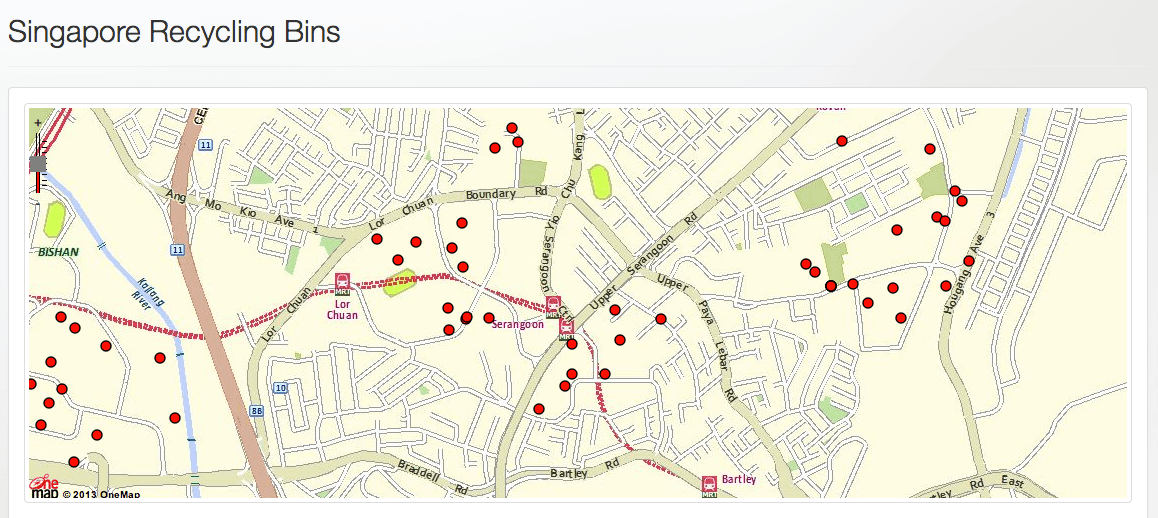
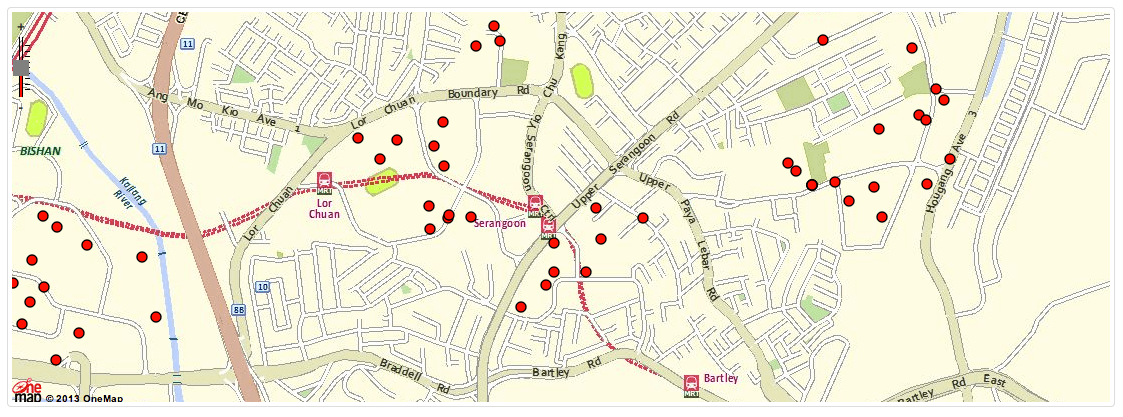
-n Added dummy page - bins-search-2.

diff --git a/scripts/8795050b.scripts.js b/scripts/8795050b.scripts.js
@@ -1,0 +1,1 @@
+"use strict";angular.module("recyclefunWebApp",["FacebookProvider"]).config(["$routeProvider",function(a){a.when("/",{templateUrl:"views/main.html",controller:"MainCtrl"}).when("/login",{templateUrl:"views/auth/login.html",controller:"LoginCtrl"}).when("/logout",{templateUrl:"views/auth/logout.html",controller:"LogoutCtrl"}).when("/register",{templateUrl:"views/auth/register.html",controller:"RegisterCtrl"}).when("/forget-password",{templateUrl:"views/auth/password-forget.html",controller:"PasswordForgetCtrl"}).when("/reset-password/:code",{templateUrl:"views/auth/password-reset.html",controller:"PasswordResetCtrl"}).when("/auth/reset-password/:passcode",{templateUrl:"views/auth/password-reset.html",controller:"PasswordResetCtrl"}).when("/auth/change-password",{templateUrl:"views/auth/password-change.html",controller:"PasswordChangeCtrl"}).when("/notifications",{templateUrl:"views/user/notifications.html",controller:"UserNotificationsCtrl"}).when("/user/",{templateUrl:"views/user/view.html",controller:"UserProfileCtrl"}).when("/user/:userid",{templateUrl:"views/user/view.html",controller:"UserProfileCtrl"}).when("/user/:userid/profile",{templateUrl:"views/user/view.html",controller:"UserProfileCtrl"}).when("/user/:userid/edit",{templateUrl:"views/user/edit.html",controller:"UserEditCtrl"}).when("/user/:userid/settings",{templateUrl:"views/user/settings.html",controller:"UserSettingsCtrl"}).when("/user/:userid/detailed-transactions",{templateUrl:"views/user/detailed-transactions.html",controller:"UserProfileCtrl"}).when("/user/:userid/badges",{templateUrl:"views/user/badges.html",controller:"UserProfileCtrl"}).when("/manage",{templateUrl:"views/pwc-manage/overview.html",controller:"PwcOverviewCtrl"}).when("/manage/pwc",{templateUrl:"views/pwc-manage/overview.html",controller:"PwcOverviewCtrl"}).when("/manage/pwc/bin/:binId",{templateUrl:"views/pwc-manage/bin.html",controller:"PwcBinCtrl"}).when("/badge/:badgeId",{templateUrl:"views/badges/badge.html",controller:"BadgeCtrl"}).when("/leaderboard",{templateUrl:"views/home/leaderboard.html",controller:"LeaderboardCtrl"}).when("/bins-search",{templateUrl:"views/home/bins-search.html",controller:"BinsSearchCtrl"}).when("/bins-search-2",{templateUrl:"views/home/bins-search-screenshot.html",controller:"MainCtrl"}).otherwise({redirectTo:"/"})}]);var pageUrlProtocol=jQuery.url().attr("protocol");window.location.href.indexOf("localhost")>0?angular.module("recyclefunWebApp").value("appConfig",{appName:"RecycleIT (Development)",url:{api:pageUrlProtocol+"://"+"api.recyclefun.localhost/"},facebook:{appId:"516418235114060",channelUrl:"/channel.html",status:!0,cookie:!0,xfbml:!0,permissions:"read_stream, publish_stream, email, read_friendlists"}}):angular.module("recyclefunWebApp").value("appConfig",{appName:"RecycleIT",url:{api:pageUrlProtocol+"://"+"recyclefun-api.ap01.aws.af.cm/"},facebook:{appId:"637970952903072",channelUrl:"/channel.html",status:!0,cookie:!0,xfbml:!0,permissions:"read_stream, publish_stream, email, read_friendlists"}}),angular.module("recyclefunWebApp").controller("MainCtrl",["$scope",function(a){a.awesomeThings=[1,2,3]}]),angular.module("recyclefunWebApp").controller("ApplicationCtrl",["$http","$location","$scope","$rootScope","$timeout","Facebook","appConfig",function(a,b,c,d,e,f,g){d._app=g,d._loading=d._loading||{},"undefined"!=typeof f&&f.init(d._app.facebook),c.FBLogin=function(){d._loading.FBLogin=!0,f.login()},d.$on("event.fb.auth.login",function(b,c){d._loading.FBLogin=!0;var e=c.authResponse;a({method:"GET",withCredentials:!0,url:d._app.url.api+"auth/",params:{accessToken:e.accessToken,type:"Facebook",fb_userID:e.userID}}).success(function(a){d.auth=a,d._loading.FBLogin=!1}).error(function(a){window.alert(a.message),d._loading.FBLogin=!1})}),d.GetAuth=function(){a({method:"GET",withCredentials:!0,url:d._app.url.api+"auth/",params:{}}).success(function(a){d.auth=a}).error(function(a){console.warn(a.message)})},c.$watch("auth",function(){if(d.auth&&d.auth.user){var a=["/login","/register"];a.indexOf(b.path())>-1&&b.path("/user/"+d.auth.user.user_id)}}),c.Login=function(){c._loading.EmailLogin=!0;var b=this;return b.loginForm.$valid&&a({method:"POST",withCredentials:!0,url:d._app.url.api+"auth/login",data:{identity:b.loginForm.inputEmail.$modelValue,password:b.loginForm.inputPassword.$modelValue,remember:b.loginForm.inputRemember.$modelValue}}).success(function(){d.GetAuth(),e(function(){c._loading.EmailLogin=!1},2e3)}).error(function(a){b.loginForm._errorMessage=a.message,e(function(){c._loading.EmailLogin=!1},2e3)}),!1},function(){d.GetAuth(),jQuery.backstretch(["images/bg/1.jpg","images/bg/2.jpg","images/bg/3.jpg","images/bg/4.jpg","images/bg/5.jpg"],{fade:1e3,duration:8e3})}()}]).controller("FacebookCtrl",function(){}),angular.module("recyclefunWebApp").controller("LoginCtrl",["$rootScope",function(a){a.GetAuth()}]).controller("RegisterCtrl",["$http","$rootScope","$scope",function(a,b,c){b.GetAuth(),c.Register=function(){var d=this;return jQuery("form[name=registerForm]").valid()?(a({method:"POST",withCredentials:!0,url:b._app.url.api+"auth/register",data:c.regFrm}).success(function(){b.GetAuth()}).error(function(a){console.warn(a),console.log(d,d),d.registerForm._errorMessage=a.message}),void 0):!1},c.InitializePage=function(){jQuery("form[name=registerForm]").validate({rules:{email:{required:!0,email:!0},password:{minlength:8,required:!0},confirmPassword:{equalTo:"[name=password]"}},highlight:function(a){jQuery(a).closest(".form-group").removeClass("has-success").addClass("has-error")},success:function(a){jQuery(a).html('<i class="icon-ok"></i>').addClass("valid").closest(".form-group").removeClass("has-error").addClass("has-success")}})},function(){c.InitializePage()}()}]).controller("LogoutCtrl",["$http","$location","$scope","$rootScope",function(a,b,c,d){c.Logout=function(){a({method:"GET",withCredentials:!0,url:d._app.url.api+"auth/logout"}).success(function(){d.auth={},b.path("/")}).error(function(a){console.warn(a)})},c.Logout()}]).controller("PasswordForgetCtrl",["$http","$location","$rootScope","$scope",function(a,b,c,d){d.PasswordForget=function(){a({method:"POST",withCredentials:!0,url:c._app.url.api+"auth/password_forget",data:{email:d.inputEmail}}).success(function(a){d.passwordForgetForm._completed=!0,d.passwordForgetForm._successMessage=a.message}).error(function(a){d.passwordForgetForm._errorMessage=a.message})}}]).controller("PasswordResetCtrl",["$http","$scope","$rootScope","$routeParams",function(a,b,c,d){b.frmInput={},b.passwordResetForm={},d.passcode&&(b.frmInput.passcode=d.passcode),b.PasswordResetCodeCheck=function(){a({method:"POST",withCredentials:!0,url:c._app.url.api+"auth/passcode_check",data:{passcode:b.frmInput.passcode}}).success(function(a){b.passwordResetCodeForm._completed=!0,b.passwordResetCodeForm._successMessage=a.message}).error(function(a){b.passwordResetCodeForm._errorMessage=a.message})},function(){d.passcode}()}]).controller("PasswordChangeCtrl",["$http","$scope","$rootScope","$routeParams",function(a,b,c){b.frmInput={},b.passwordChangeForm={},b.PasswordChangeFormSubmit=function(){return jQuery("form[name=passwordChangeForm]").valid()?(a({method:"POST",withCredentials:!0,url:c._app.url.api+"auth/password_change",data:{password:b.frmInput.password}}).success(function(a){b.passwordChangeForm._completed=!0,b.passwordChangeForm._successMessage=a.message,b.frmInput.password="",b.frmInput.confirmPassword="",b.passwordChangeForm._errorMessage=""}).error(function(a){b.passwordChangeForm._errorMessage=a.message||"Error occurred while changing password."}),void 0):!1},b.InitializePage=function(){jQuery("form[name=passwordChangeForm]").validate({rules:{password:{minlength:8,required:!0},confirmPassword:{equalTo:"[name=password]"}},highlight:function(a){jQuery(a).closest(".form-group").removeClass("has-success").addClass("has-error")},success:function(a){jQuery(a).html('<i class="icon-ok"></i>').addClass("valid").closest(".form-group").removeClass("has-error").addClass("has-success")}})},function(){b.InitializePage()}()}]),angular.module("recyclefunWebApp").controller("BadgeCtrl",["$scope","$routeParams",function(a,b){a.badgeId=b.badgeId,a.badgeIdList=["1","2"],a.GetBadgeTemplateURL=function(a){return"views/badges/badge-"+a+".tpl.html"}}]),angular.module("recyclefunWebApp").controller("LeaderboardCtrl",["$scope","$timeout",function(a,b){a.recyclingStatistics=[{id:1,player:"Jurong",wastetotal:"475,918",average_per_house:"0.5592",recycle_percentage:"5.48",paper:"330887",can:"9137",glass:"16653",plastic:"49460",cloth:"30347",misc:"39434",garden:"0",month:"1/1/2013",inc:1,dec:0,difference:"21",badge1:1,badge2:1,badge3:1},{id:2,player:"Clementi",wastetotal:"211,048",average_per_house:"0.3015",recycle_percentage:"2.35",paper:"117350",can:"13522",glass:"36548",plastic:"35094",cloth:"3401",misc:"5133",garden:"0",month:"1/1/2013",inc:0,dec:1,difference:"12",badge1:1,badge2:0,badge3:1},{id:3,player:"Bedok",wastetotal:"378,806",average_per_house:"0.5623",recycle_percentage:"4.16",paper:"165252",can:"9251",glass:"77517",plastic:"76018",cloth:"14347",misc:"36421",garden:"0",month:"1/1/2013",inc:1,dec:0,difference:"20",badge1:0,badge2:0,badge3:1},{id:4,player:"City",wastetotal:"98,223",average_per_house:"0.1087",recycle_percentage:"0.70",paper:"49501",can:"6818",glass:"18341",plastic:"17733",cloth:"2362",misc:"3468",garden:"0",month:"1/1/2013",inc:1,dec:0,difference:"20",badge1:0,badge2:0,badge3:1},{id:5,player:"HG-PG",wastetotal:"236,259",average_per_house:"0.3390",recycle_percentage:"1.11",paper:"142419",can:"13781",glass:"36216",plastic:"35521",cloth:"3952",misc:"4370",garden:"0",month:"1/1/2013",inc:1,dec:"FALSE",difference:"20",badge1:0,badge2:0,badge3:1},{id:6,player:"PRT",wastetotal:"339,657",average_per_house:"0.5639",recycle_percentage:"2.76",paper:"110111",can:"6143",glass:"114117",plastic:"95021",cloth:"14265",misc:"123",garden:"0",month:"1/1/2013",inc:1,dec:0,difference:"20",badge1:0,badge2:0,badge3:1},{id:7,player:"AMK",wastetotal:"176,144",average_per_house:"0.1978",recycle_percentage:"1.13",paper:"35282",can:"8756",glass:"36636",plastic:"32481",cloth:"18423",misc:"44566",garden:"0",month:"1/1/2013",inc:1,dec:0,difference:"20",badge1:0,badge2:0,badge3:1},{id:8,player:"TBM",wastetotal:"309,220",average_per_house:"0.3931",recycle_percentage:"1.98",paper:"88213",can:"8044",glass:"105949",plastic:"92355",cloth:"13148",misc:"1511",garden:"0",month:"1/1/2013",inc:1,dec:0,difference:"20",badge1:0,badge2:0,badge3:1},{id:9,player:"WL-Y",wastetotal:"285,822",average_per_house:"0.6055",recycle_percentage:"2.08",paper:"167031",can:"14142",glass:"45832",plastic:"45545",cloth:"6952",misc:"6320",garden:"0",month:"1/1/2013",inc:1,dec:0,difference:"20",badge1:0,badge2:0,badge3:1}],function(){var c,d=!1,e=function(){d||(d=!0,console.log("GetRegionsVisualization..."),a.recyclingStatistics.map(function(a){f(a)}))},f=function(a){var b=function(b){if(b.isError())return alert("Error in query: "+b.getMessage()+" "+b.getDetailedMessage()),void 0;var d=b.getDataTable(),e=new google.visualization.DataView(d);e.setColumns([6,7]),c=new google.visualization.BarChart(document.getElementById("visualization-chart-id-"+a.id));var f={title:a.player+" Recycle over times (kg)",width:535,height:500};c.draw(e,f);var g=new google.visualization.PieChart(document.getElementById("pie-chart-id-"+a.id)),h=new google.visualization.DataTable;h.addColumn("string","Category"),h.addColumn("number","Kg"),h.addRows([["Paper",parseFloat(a.paper)],["Can",parseFloat(a.can)],["Glass",parseFloat(a.glass)],["Plastic",parseFloat(a.plastic)],["Cloth",parseFloat(a.cloth)],["Miscellaneous",parseFloat(a.misc)]]);var i={title:a.player+" Recycle Category",width:535,height:300,is3D:!0};g.draw(h,i)},d=new google.visualization.Query("https://spreadsheets.google.com/tq?key=0Ap3K3Evv9lLsdGdtTGpWTXZtS1NMS2dPaURIV2tLekE&pub=1");d.setQuery('SELECT E,F,G,H,I,J,M,L WHERE B = "'+a.player+'" ORDER BY M'),d.send(b)};google.load("visualization","1",{callback:'console.log("Workaround for blank page. Read http://stackoverflow.com/questions/9519673/why-does-google-load-cause-my-page-to-go-blank ");',packages:["piechart","corechart","geomap"]}),google.setOnLoadCallback(e),b(function(){e()},2e3)}()}]).controller("BinsSearchCtrl",["$http","$scope","$timeout",function(a,b,c){b.GetBinsStatistics=function(){jQuery("#bar-example").length>0&&Morris.Bar({element:"bar-example",data:[{y:"Ang Mo Kio",a:100,b:197},{y:"Bedok",a:75,b:562},{y:"City",a:50,b:108},{y:"Clementi",a:75,b:301},{y:"Hougang",a:50,b:339},{y:"Jurong",a:68,b:559},{y:"Tampines",a:75,b:563},{y:"Queenstown",a:100,b:393},{y:"Woodlands",a:200,b:605}],xkey:"y",ykeys:["a","b"],labels:["Number of bins","Collection per household"]})},b.InitializeOneMap=function(){var a="28968.103,33560.969",d=2;b.OneMap=new GetOneMap("divMain","SM",{level:d,center:a}),c(function(){var a="assets/data/binsMapLocation.kml";b.OneMap.overlayKML(a)},1e3)},b.GetBinsLocation=function(){a({method:"GET",url:"assets/data/binsLocation.json"}).success(function(a){b.recyclingBinLocations=a})},function(){jQuery("#divMain").length>0&&b.InitializeOneMap(),b.GetBinsStatistics(),b.GetBinsLocation()}()}]),angular.module("recyclefunWebApp").controller("PwcOverviewCtrl",["$http","$scope","$rootScope","$routeParams",function(a,b,c,d){b._loading={},b._error={},b.userid=d.userid,b.IsPageOwner=function(){return c.auth&&!d.userid?!0:void 0},b.binsStatus=[{id:"1",address:"102, Jurong East Street 13",status:"55"},{id:"2",address:"105, Jurong East Street 13",status:"97"},{id:"3",address:"112, Jurong East Street 13",status:"71"},{id:"4",address:"203, Jurong East Street 21",status:"63"},{id:"5",address:"207, Jurong East Street 21",status:"35"},{id:"6",address:"210, Jurong East Street 21",status:"61"},{id:"7",address:"219A, Jurong East Street 21",status:"20"},{id:"8",address:"223A, Jurong East Street 21",status:"22"},{id:"9",address:"228, Jurong East Avenue 1",status:"43"},{id:"10",address:"230, Jurong East Street 21",status:"92"}]}]).controller("PwcBinCtrl",["$http","$scope","$rootScope","$routeParams",function(a,b,c,d){b._loading={},b._error={},b.userid=d.userid,b.IsPageOwner=function(){return c.auth&&!d.userid?!0:void 0},jQuery("#line-fill-level").length>0&&Morris.Line({element:"line-fill-level",data:[{y:"2013-09-23",a:23},{y:"2013-09-23",a:24},{y:"2013-09-24",a:30},{y:"2013-09-25",a:48},{y:"2013-09-26",a:68},{y:"2013-09-27",a:90},{y:"2013-09-28",a:92}],xkey:"y",ykeys:["a"],labels:["Fill level"]})}]),angular.module("recyclefunWebApp").controller("UserProfileCtrl",["$http","$scope","$rootScope","$routeParams","$timeout",function(a,b,c,d,e){b._loading={},b._error={},b.current_date=new Date,b.current_year_month=b.current_date.getFullYear()+"-"+("0"+(b.current_date.getMonth()+1)).slice(-2),b.userid=d.userid,b.IsPageOwner=function(){return c.auth&&!d.userid?!0:void 0},b.GetUser=function(){b._loading.GetUser=!0,a({method:"GET",withCredentials:!0,url:c._app.url.api+"user",params:{user_id:d.userid}}).success(function(a){b._loading.GetUser=!1,b._error.message=!1,b.user=a.data,b.GetUserTransactions()}).error(function(a){b._loading.GetUser=!1,b._error.message=a.error,console.warn(a.error)})},b.GetUserTransactions=function(){b._loading.GetUserTransactions=!0,a({method:"GET",withCredentials:!0,url:c._app.url.api+"user/transactions",params:{user_id:d.userid}}).success(function(a){b._loading.GetUserTransactions=!1,b._error.message=!1,b.user.transactions=a.data,b.RenderTransactionBar()}).error(function(a){b._loading.GetUserTransactions=!1,b._error.message=a.error,b.user.transactions=[],console.warn(a.error)}),a({method:"GET",withCredentials:!0,url:c._app.url.api+"user/transactions_by_months",params:{user_id:d.userid,month:b.current_date.getMonth()+1,year:b.current_date.getFullYear()}}).success(function(a){b._loading.GetUserTransactionsByMonth=!1,b._error.message=!1,b.user.transactionsByMonths=a.data?a.data:[]}).error(function(a){b._loading.GetUserTransactionsByMonth=!1,b._error.message=a.error,b.user.transactionsByMonths=[],console.warn(a.error)})},b.GetUser(),b.$watch("user.transactionsByMonths",function(a){a&&"undefined"!=typeof a[b.current_year_month]&&(b.user.transactionsCurrentMonth=a[b.current_year_month]),b.RenderTransactionsByMonthsBar()}),b.$watch("user.transactionsByMonths",function(){b.RenderTransactionsByCurrentMonth()}),b.RenderTransactionBar=function(){if(b.user&&b.user.transactions){var a=b.user.transactions.reduce(function(a,b){var c={y:b.transactiondate,a:parseFloat(b.recyclable_amount)};return a.push(c),a},[]);jQuery("#bar-transaction").length>0&&e(function(){Morris.Bar({element:"bar-transaction",data:a.reverse(),barColors:["green"],xkey:"y",ykeys:["a"],labels:["kg"]})},1e3)}},b.RenderTransactionsByCurrentMonth=function(){if(b.user&&b.user.transactionsCurrentMonth){var a=b.user.transactionsCurrentMonth.reduce(function(a,b){var c={label:b.recyclable_type_name,value:b.recyclable_amount};return a.push(c),a},[]);jQuery("#morris-donut-current-month").length>0&&Morris.Donut({element:"morris-donut-current-month",data:a})}},b.RenderTransactionsByMonthsBar=function(){if(b.user&&b.user.transactionsByMonths){var a=[],c=b.user.transactionsByMonths;for(var d in c)if(c.hasOwnProperty(d)){var e=c[d];if(e){var f=e.reduce(function(a,b){return a+=parseFloat(b.recyclable_amount||0)},0);a.push({y:d,a:f})}}jQuery("#morris-bar-monthly").length>0&&Morris.Bar({element:"morris-bar-monthly",data:a.reverse(),xkey:"y",ykeys:["a"],labels:["Total"]})}},b.RenderTransactionBar()}]).controller("UserSettingsCtrl",["$http","$scope","$rootScope",function(a,b,c){b.user={},b._loading={GetUserSettings:!0,SaveUserSettings:!1},b.GetUserSettings=function(){b._loading.GetUserSettings=!0,a({method:"GET",withCredentials:!0,url:c._app.url.api+"user"}).success(function(a){b._loading.GetUserSettings=!1,b.user=a.data}).error(function(a){console.warn(a)})},b.SaveUserSettings=function(){b._loading.SaveUserSettings=!0,a({method:"POST",withCredentials:!0,url:c._app.url.api+"user",data:b.user}).success(function(){b._loading.SaveUserSettings=!1,alert("Settings saved.")}).error(function(a){console.warn(a),a.error&&alert(a.error)})},function(){b.GetUserSettings()}()}]).controller("UserBadgesCtrl",function(){}).controller("UserNotificationsCtrl",function(){}),angular.module("recyclefunWebApp").directive("fbElm",function(){return{restrict:"A",link:function(){"undefined"!=typeof FB&&FB.XFBML.parse()}}});var app_provider=angular.module("FacebookProvider",[]);app_provider.factory("Facebook",["$rootScope",function(a){var b={};return b.permissions="read_stream, publish_stream, email",b.channelUrl="/channel.html",b.status=!0,b.cookie=!0,b.xfbml=!0,{init:function(a){angular.extend(b,a),window.fbAsyncInit=function(){FB.init({appId:b.appId,channelUrl:b.channelUrl,status:b.status,cookie:b.cookie,xfbml:b.xfbml})},function(a){var b,c="facebook-jssdk",d=a.getElementsByTagName("script")[0];a.getElementById(c)||(b=a.createElement("script"),b.id=c,b.async=!0,b.src="//connect.facebook.net/en_US/all.js",d.parentNode.insertBefore(b,d))}(document)},getLoginStatus:function(){FB.getLoginStatus(function(b){a.$broadcast("event.fb.auth.statusChange",{status:b.status})},!0)},login:function(){FB.getLoginStatus(function(c){switch(c.status){case"connected":a.$broadcast("event.fb.auth.login",{authResponse:c.authResponse});break;case"not_authorized":FB.login(function(b){b.authResponse?a.$broadcast("event.fb.auth.login",{facebook_id:b.authResponse.userID,userNotAuthorized:!0}):a.$broadcast("event.fb.auth.login.failed")},{scope:b.permissions});break;default:FB.login(function(b){b.authResponse?(a.$broadcast("event.fb.auth.login",{facebook_id:b.authResponse.userID}),a.$broadcast("event.fb.auth.authResponseChange")):a.$broadcast("event.fb.auth.login.failed")})}},!0)},logout:function(){FB.logout(function(b){b?a.$broadcast("event.fb.auth.logout"):a.$broadcast("event.fb.auth.logout.failed")})},unsubscribe:function(){FB.api("/me/permissions","DELETE",function(){a.$broadcast("event.fb.auth.authResponseChange")})}}}]);

diff --git a/views/user/view.html b/views/user/view.html
@@ -143,6 +143,105 @@
             <div class="user-statistics row">
               <div class="col-xs-12 col-md-12">
 
+                <!-- START DETAIL TRANSACTION-->
+                <div class="panel panel-default">
+                  <div class="panel-heading">
+                    <h4>Detailed transactions</h4>
+                  </div>
+                  <div class="panel-body">
+                    <div class="row">
+                      <div class="col-xs-12 col-md-6">
+                        <div ng-show="user.transactions">
+                          <div id="bar-transaction"></div>
+                        </div>
+                        <div ng-hide="user.transactions" class="text-center" style="padding: 50px 0">
+                          No graph data yet
+                        </div>
+                      </div>
+                      <div class="col-xs-12 col-md-6">
+                        <table class="table table-hover table-condensed">
+                          <thead>
+                            <tr class="text-center">
+                              <td style="font-weight:bold">Time</td>
+                              <td style="font-weight:bold">Transaction</td>
+                            </tr>
+                          </thead>
+                          <tbody>
+                            <tr ng-show="_loading.GetUserTransactions">
+                              <td colspan="2">
+                                <div>
+                                  <h3>Loading...</h3>
+                                  <div>&nbsp;</div>
+                                </div>
+                              </td>
+                            </tr>
+                            <tr ng-hide="_loading.GetUserTransactions" class="text-center" ng-repeat="tran in user.transactions">
+                              <td>{{tran.transactiondate}}</td>
+                              <td style="font-style:italic">
+                                <span ng-show="tran.recyclable_amount > 0">You have recycled {{tran.recyclable_amount}} kg of {{tran.recyclable_type_name}}. </span>
+                                <span ng-hide="tran.recyclable_amount > 0">You have recycled {{tran.recyclable_type_name}}. </span>
+
+                              </td>
+                            </tr>
+                            <tr>
+                              <td colspan="2" class="text-center">No transaction data yet.</td>
+                            </tr>
+                          </tbody>
+                        </table>
+                        <h4 class="text-right hidden">
+                          <a href="#/user/detailed-transactions" class="more btn btn-primary">View All <i class="icon-circle-arrow-right"></i></a>
+                        </h4>
+                      </div>
+                    </div>
+                  </div>
+                </div>
+                <!-- END DETAIL TRANSACTION -->
+
+                <!-- START MONTHLY CONTRIBUTION -->
+                <div class="panel panel-default">
+                  <div class="panel-heading">
+                    <h4>Monthly Contribution</h4>
+                  </div>
+                  <div class="panel-body">
+
+                    <div class="row">
+                      <div class="col-xs-12 col-md-6">
+                        <div id="morris-donut-current-month"></div>
+                      </div>
+                      <div class="col-xs-12 col-md-6">
+                        <div id="morris-bar-monthly"></div>
+                      </div>
+                    </div>
+
+                    <table class="table table-hover">
+                      <thead>
+                        <tr class="text-center">
+                          <td></td>
+                          <td ng-repeat="t in user.transactionsCurrentMonth">{{t.recyclable_type_name}}</td>
+                        </tr>
+                      </thead>
+                      <tbody>
+                        <tr class="text-center">
+                          <td>Current month (kg)</td>
+                          <td ng-repeat="t in user.transactionsCurrentMonth">{{t.recyclable_amount}}</td>
+                        </tr>
+                        <!--                        <tr style="text-align: center;">
+                                                  <td>Last month (kg)</td>
+                                                  <td>40</td>
+                                                  <td>14</td>
+                                                  <td>6</td>
+                                                  <td>9</td>
+                                                  <td style="color: red; font-weight: bold; background: #EFEFEF;">4</td>
+                                                  <td style="color: red; font-weight: bold; background: #EFEFEF;">3</td>
+                                                  <td style="color: red; font-weight: bold; background: #EFEFEF;">2</td>
+                                                </tr>-->
+                      </tbody>
+                    </table>
+
+                  </div>
+                </div>
+                <!-- END MONTHLY CONTRIBUTION -->
+
                 <!-- START ALL-TIME CONTRIBUTION -->
                 <div class="panel panel-default">
                   <div class="panel-heading">
@@ -246,110 +345,11 @@
                       </button>
                     </div>
 
+                    <div class="clearfix">&nbsp;</div>
+
                   </div>
                 </div>
                 <!-- END ALL-TIME CONTRIBUTION -->
-                <!-- START DETAIL TRANSACTION-->
-                <div class="panel panel-default">
-                  <div class="panel-heading">
-                    <h4>Detailed transactions</h4>
-                  </div>
-                  <div class="panel-body">
-                    <div class="row">
-                      <div class="col-xs-12 col-md-6">
-                        <div ng-show="user.transactions">
-                          <div id="bar-transaction"></div>
-                        </div>
-                        <div ng-hide="user.transactions" class="text-center" style="padding: 50px 0">
-                          No graph data yet
-                        </div>
-                      </div>
-                      <div class="col-xs-12 col-md-6">
-                        <table class="table table-hover table-condensed">
-                          <thead>
-                            <tr class="text-center">
-                              <td style="font-weight:bold">Time</td>
-                              <td style="font-weight:bold">Transaction</td>
-                            </tr>
-                          </thead>
-                          <tbody>
-                            <tr ng-show="_loading.GetUserTransactions">
-                              <td colspan="2">
-                                <div>
-                                  <h3>Loading...</h3>
-                                  <div>&nbsp;</div>
-                                </div>
-                              </td>
-                            </tr>
-                            <tr ng-hide="_loading.GetUserTransactions" class="text-center" ng-repeat="tran in user.transactions">
-                              <td>{{tran.transactiondate}}</td>
-                              <td style="font-style:italic">
-                                <span ng-show="tran.recyclable_amount > 0">You have recycled {{tran.recyclable_amount}} kg of {{tran.recyclable_type_name}}. </span>
-                                <span ng-hide="tran.recyclable_amount > 0">You have recycled {{tran.recyclable_type_name}}. </span>
-
-                              </td>
-                            </tr>
-                            <tr>
-                              <td colspan="2" class="text-center">No transaction data yet.</td>
-                            </tr>
-                          </tbody>
-                        </table>
-                        <h4 class="text-right hidden">
-                          <a href="#/user/detailed-transactions" class="more btn btn-primary">View All <i class="icon-circle-arrow-right"></i></a>
-                        </h4>
-                      </div>
-                    </div>
-                  </div>
-                </div>
-
-
-                <!-- END DETAIL TRANSACTION -->
-
-                <!-- START MONTHLY CONTRIBUTION -->
-                <div class="panel panel-default">
-                  <div class="panel-heading">
-                    <h4>Monthly Contribution</h4>
-                  </div>
-                  <div class="panel-body">
-
-                    <div class="row">
-                      <div class="col-xs-12 col-md-6">
-                        <div id="morris-donut-current-month"></div>
-                      </div>
-                      <div class="col-xs-12 col-md-6">
-                        <div id="morris-bar-monthly"></div>
-                      </div>
-                    </div>
-
-                    <table class="table table-hover">
-                      <thead>
-                        <tr class="text-center">
-                          <td></td>
-                          <td ng-repeat="t in user.transactionsCurrentMonth">{{t.recyclable_type_name}}</td>
-                        </tr>
-                      </thead>
-                      <tbody>
-                        <tr class="text-center">
-                          <td>Current month (kg)</td>
-                          <td ng-repeat="t in user.transactionsCurrentMonth">{{t.recyclable_amount}}</td>
-                        </tr>
-                        <!--                        <tr style="text-align: center;">
-                                                  <td>Last month (kg)</td>
-                                                  <td>40</td>
-                                                  <td>14</td>
-                                                  <td>6</td>
-                                                  <td>9</td>
-                                                  <td style="color: red; font-weight: bold; background: #EFEFEF;">4</td>
-                                                  <td style="color: red; font-weight: bold; background: #EFEFEF;">3</td>
-                                                  <td style="color: red; font-weight: bold; background: #EFEFEF;">2</td>
-                                                </tr>-->
-                      </tbody>
-                    </table>
-
-                  </div>
-                </div>
-                <!-- END MONTHLY CONTRIBUTION -->
-
 
               </div>
             </div>

diff --git a/views/home/bins-search-screenshot.html b/views/home/bins-search-screenshot.html
@@ -1,0 +1,93 @@
+<div class="page-container">
+  <div class="container container-bg-white">
+    <div class="row">
+
+      <div class="col-xs-12 col-md-12">
+
+
+        <div class="page-header">
+          <h2>Singapore Recycling Bins</h2>
+        </div>
+        
+        <div class="panel panel-default">
+          <!-- <div class="panel-heading">
+            <h4>Search for recycling bin</h4>
+          </div> -->
+          <div class="panel-body">
+            <div class="map-container">
+              <img src="/images/screenshots/serangoon-bins-location.png">
+              <div class="clearfix">&nbsp;</div>
+            </div>
+
+            <form class="form-horizontal" role="form">
+              <div class="form-group">
+                <label class="col-lg-1 control-label">Search:</label>
+                <div class="col-lg-11">
+                  <input ng-model="recyclingBinLocationsFilter" type="text" class="form-control" placeholder="Search: Newspaper, Jurong East, 139951, Thursday">
+                </div>
+              </div>
+            </form>
+
+            <table class="recyclingLocationList table table-bordered">
+              <thead>
+                <tr class="row-fluid">
+                  <td class="col-xs-1">
+                    Region
+                  </td>
+                  <td class="col-xs-3">
+                    Address
+                  </td>
+                  <td class="col-xs-1">
+                    No. of bin
+                  </td>
+                  <td class="col-xs-5">
+                    Description
+                  </td>
+                  <td class="col-xs-2">
+                    Collection Day
+                  </td>
+                </tr>
+              </thead>
+              <tbody>
+                <tr class="row-fluid" ng-repeat="bin in recyclingBinLocations | filter:recyclingBinLocationsFilter | limitTo:20">
+                  <td class="col-xs-1">
+                    {{bin.region}}
+                  </td>
+                  <td class="col-xs-3">
+                    {{bin.block}}, {{bin.street}} <span ng-show="bin.postal">({{bin.postal}})</span>
+                  </td>
+                  <td class="col-xs-1">
+                    {{bin.no_of_bin || 1}}
+                  </td>
+                  <td class="col-xs-5">
+                    {{bin.description || 'For the collection of newspaper magazine junk mail paper packaging and other used paper plastic and glass containers drink cans metal containers and clothing' }}
+                  </td>
+                  <td class="col-xs-2">
+                    {{bin.collection_day || 'Tuesday & Friday'}}
+                  </td>
+                </tr>
+              </tbody>
+            </table>
+
+          </div>
+        </div>
+
+        <div class="clearfix">&nbsp;</div>
+        <div class="clearfix">&nbsp;</div>
+
+        <div class="panel panel-default">
+          <div class="panel-heading">
+            <h4>Number of bins and Collection per person (g)</h4>
+          </div>
+          <div class="panel-body">
+            <div id="bar-example"></div>
+          </div>
+        </div>
+
+      </div>
+      
+    </div>
+  </div>
+</div>
+
+<div class="clearfix">&nbsp;</div>

diff --git a/index.html b/index.html
@@ -68,6 +68,6 @@
     
     <script type="text/javascript" src="http://www.google.com/jsapi"></script>
 
-    <script src="scripts/46d70c52.scripts.js"></script>
+    <script src="scripts/8795050b.scripts.js"></script>
   </body>
 </html>
